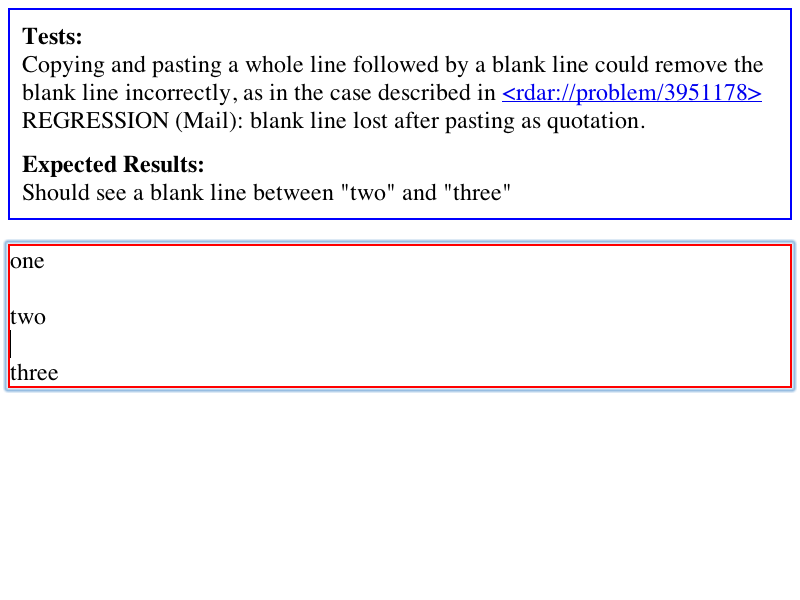
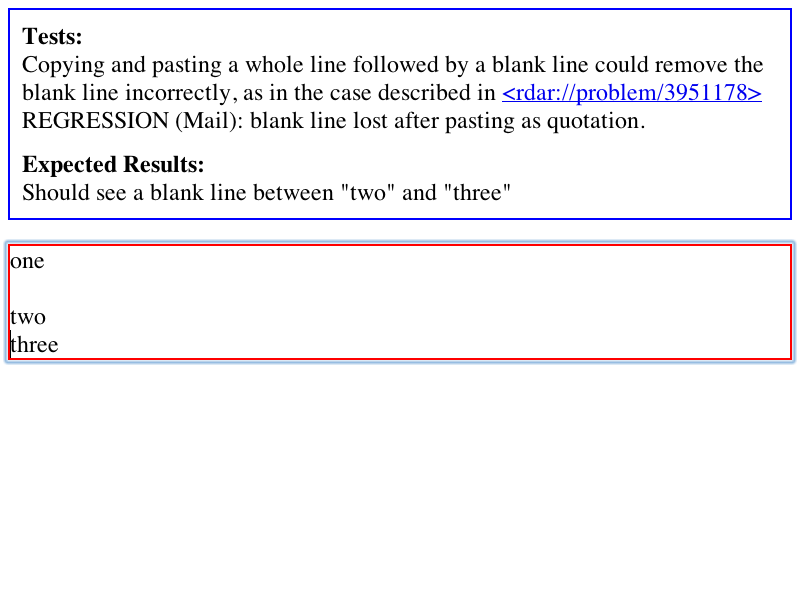
LayoutTests:
Reviewed by darin
        
        <http://bugzilla.opendarwin.org/show_bug.cgi?id=8624>
        Placeholders aren't always removed during paste
        <rdar://problem/4059807>
        Seed: Mail: pasting quoted content sometimes adds a phantom newline
        
        If a webkit-block-placeholder has been introduced by a bug in deletion,
        we shouldn't remove it during paste if it is now acting as a linebreak.
        * editing/pasteboard/bad-placeholder-expected.checksum: Added.
        * editing/pasteboard/bad-placeholder-expected.png: Added.
        * editing/pasteboard/bad-placeholder-expected.txt: Added.
        * editing/pasteboard/bad-placeholder.html: Added.
        Generic placeholder brs should be removed if they are displaced by pasted content.
        * editing/pasteboard/displaced-generic-placeholder-expected.checksum: Added.
        * editing/pasteboard/displaced-generic-placeholder-expected.png: Added.
        * editing/pasteboard/displaced-generic-placeholder-expected.txt: Added.
        * editing/pasteboard/displaced-generic-placeholder.html: Added.
        So should placeholder brs with our special class on them.
        * editing/pasteboard/displaced-placeholder-expected.checksum: Added.
        * editing/pasteboard/displaced-placeholder-expected.png: Added.
        * editing/pasteboard/displaced-placeholder-expected.txt: Added.
        * editing/pasteboard/displaced-placeholder.html: Added.
        Removed an unnecessary collapsed br.
[…]

Changed region(s): [[0.0, 0.57, 1.0, 0.66]]

diff --git a/editing/pasteboard/bad-placeholder.html b/editing/pasteboard/bad-placeholder.html
@@ -1,0 +1,12 @@
+<p>This is a test to make sure that a placeholder, even one without our special class on it, is removed only when it has been collapsed away or when it has been displaced by pasted content.</p>
+<p>Placeholders with our special class can, through bugs in deletion, be inserted into the document unnecessarily.  Once that happens, we don't want to make matters worse by removing them if they are acting as line breaks instead of placeholders.</p>
+<div id="test" contenteditable="true">First<br class='webkit-block-placeholder'>Second paragraph.</div>
+
+<script>
+var s = window.getSelection();
+var e = document.getElementById("test");
+
+s.setPosition(e, 0);
+s.modify("move", "forward", "word");
+document.execCommand("InsertHTML", false, " paragraph.");
+</script>

diff --git a/editing/pasteboard/quirks-mode-br-2.html b/editing/pasteboard/quirks-mode-br-2.html
@@ -1,0 +1,12 @@
+<p>This is a test to make sure that the final &lt;br&gt; in an incoming fragment is interpretted strictly in quirks mode (where brs at the end of blocks are collapsed).  This test used to fail because placeholders where the paste occured were removed after incoming brs were handled.</p>
+
+<p>There should be two blank lines in the editable region below.</p>
+<div id="test" contenteditable="true"><br class="webkit-block-placeholder"></div>
+
+<script>
+var s = window.getSelection();
+var e = document.getElementById("test");
+
+s.setPosition(e, 0);
+document.execCommand("InsertHTML", false, "<br>");
+</script>

diff --git a/editing/pasteboard/quirks-mode-br-1.html b/editing/pasteboard/quirks-mode-br-1.html
@@ -1,0 +1,11 @@
+<p>This is a test to make sure that the final &lt;br&gt; in an incoming fragment is interpretted strictly in quirks mode (where brs at the end of blocks are collapsed).  This test used to fail because of unrendered content to the left of the collapsed br.</p>
+<div id="test" contenteditable="true"><div>The test should add a single blank line after this paragraph.<span></span><br></div></div>
+
+<script>
+var s = window.getSelection();
+var e = document.getElementById("test");
+
+s.setPosition(e, 0);
+s.modify("move", "forward", "line");
+document.execCommand("InsertHTML", false, "<br>");
+</script>

diff --git a/editing/pasteboard/unrendered-br.html b/editing/pasteboard/unrendered-br.html
@@ -1,0 +1,11 @@
+<p>This is a test to make sure that an unrendered br at the end of the selection being pasted into doesn't become rendered as a result of the paste.</p>
+<div id="test" contenteditable="true">First&nbsp;<br></div>
+
+<script>
+var s = window.getSelection();
+var e = document.getElementById("test");
+
+s.setPosition(e, 0);
+s.modify("move", "forward", "line");
+document.execCommand("InsertHTML", false, "paragraph.<div>Second paragraph.</div>");
+</script>

diff --git a/editing/pasteboard/displaced-generic-placeholder.html b/editing/pasteboard/displaced-generic-placeholder.html
@@ -1,0 +1,10 @@
+<p>This is a test to make sure that a placeholder, even one that doesn't have our special class on it, is removed when it is displaced by pasted content.</p>
+<div id="test" contenteditable="true"><br></div>
+
+<script>
+var s = window.getSelection();
+var e = document.getElementById("test");
+
+s.setPosition(e, 0);
+document.execCommand("InsertHTML", false, "First paragraph.<div>Second paragraph.</div>");
+</script>

diff --git a/editing/pasteboard/displaced-placeholder.html b/editing/pasteboard/displaced-placeholder.html
@@ -1,0 +1,10 @@
+<p>This is a test to make sure that a placeholder is removed when it is displaced by pasted content.</p>
+<div id="test" contenteditable="true"><br class='webkit-block-placeholder'></div>
+
+<script>
+var s = window.getSelection();
+var e = document.getElementById("test");
+
+s.setPosition(e, 0);
+document.execCommand("InsertHTML", false, "First paragraph.<div>Second paragraph.</div>");
+</script>
